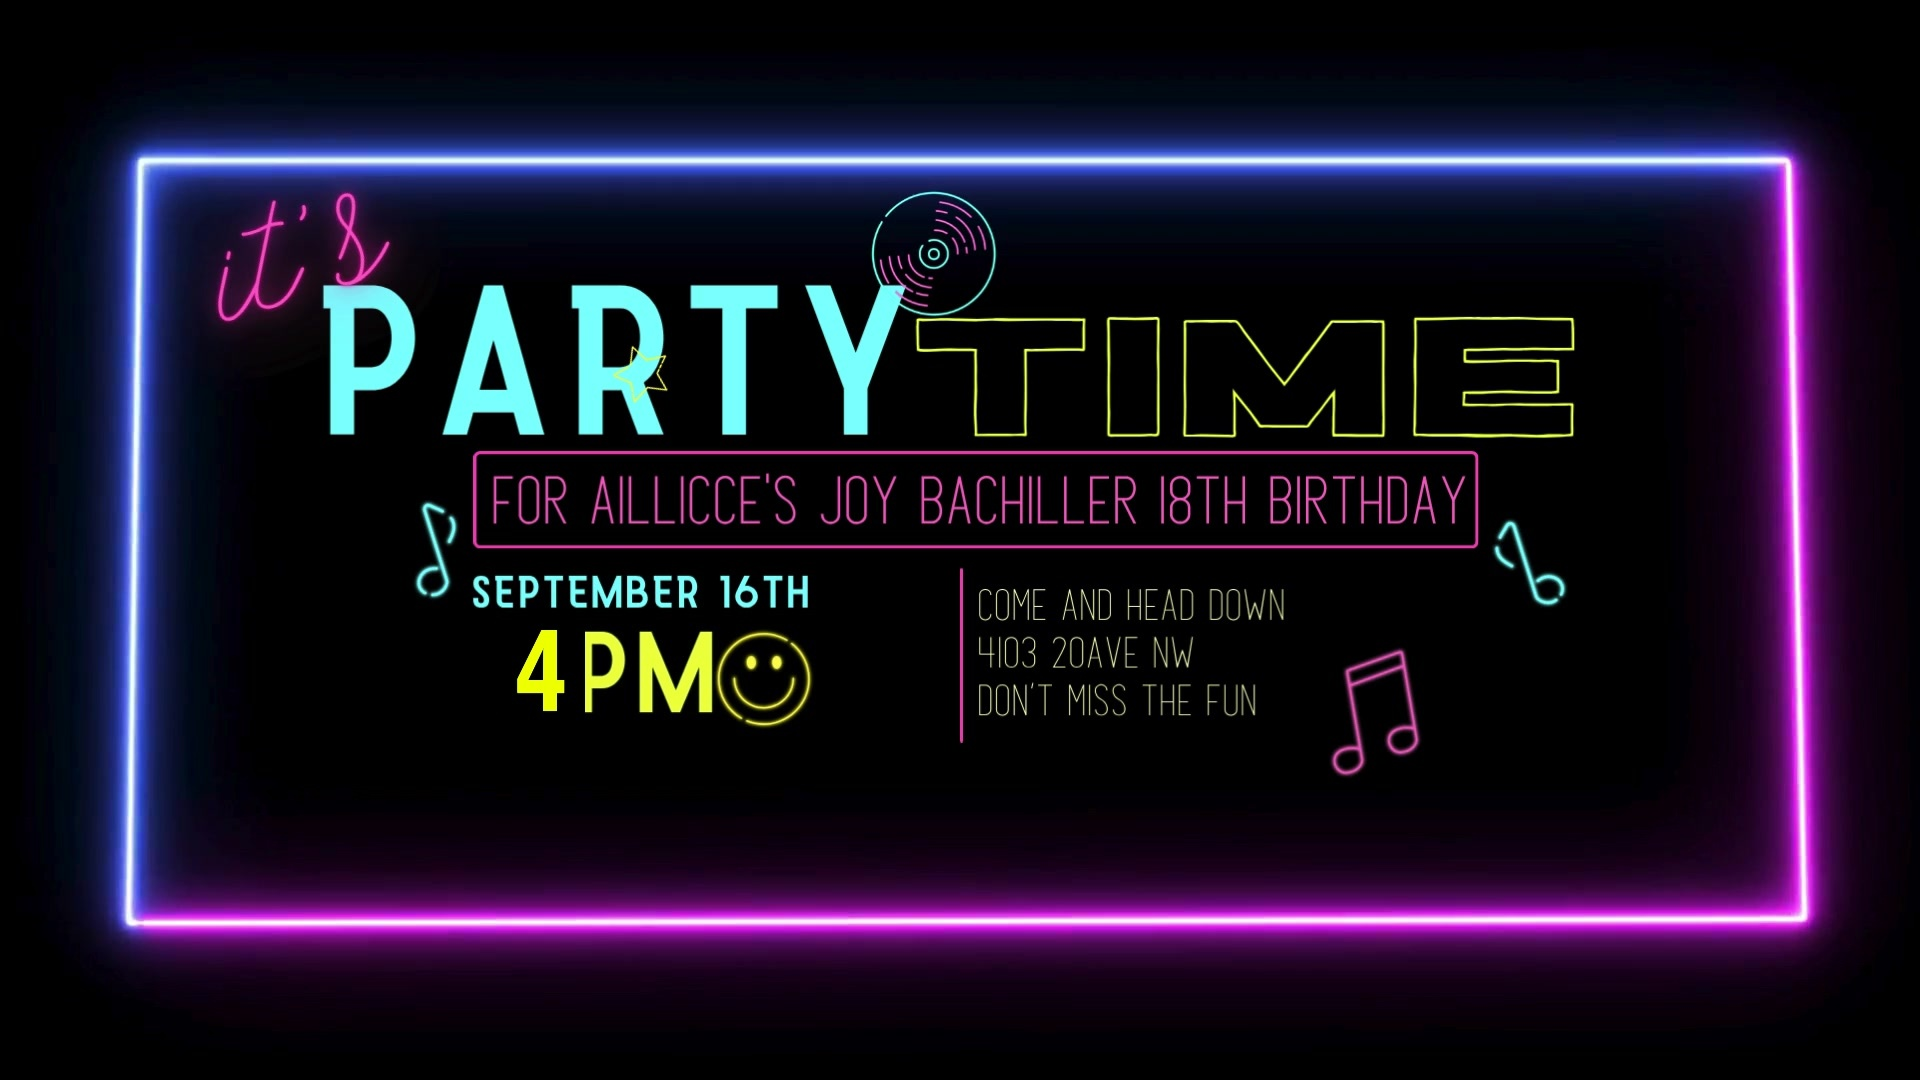
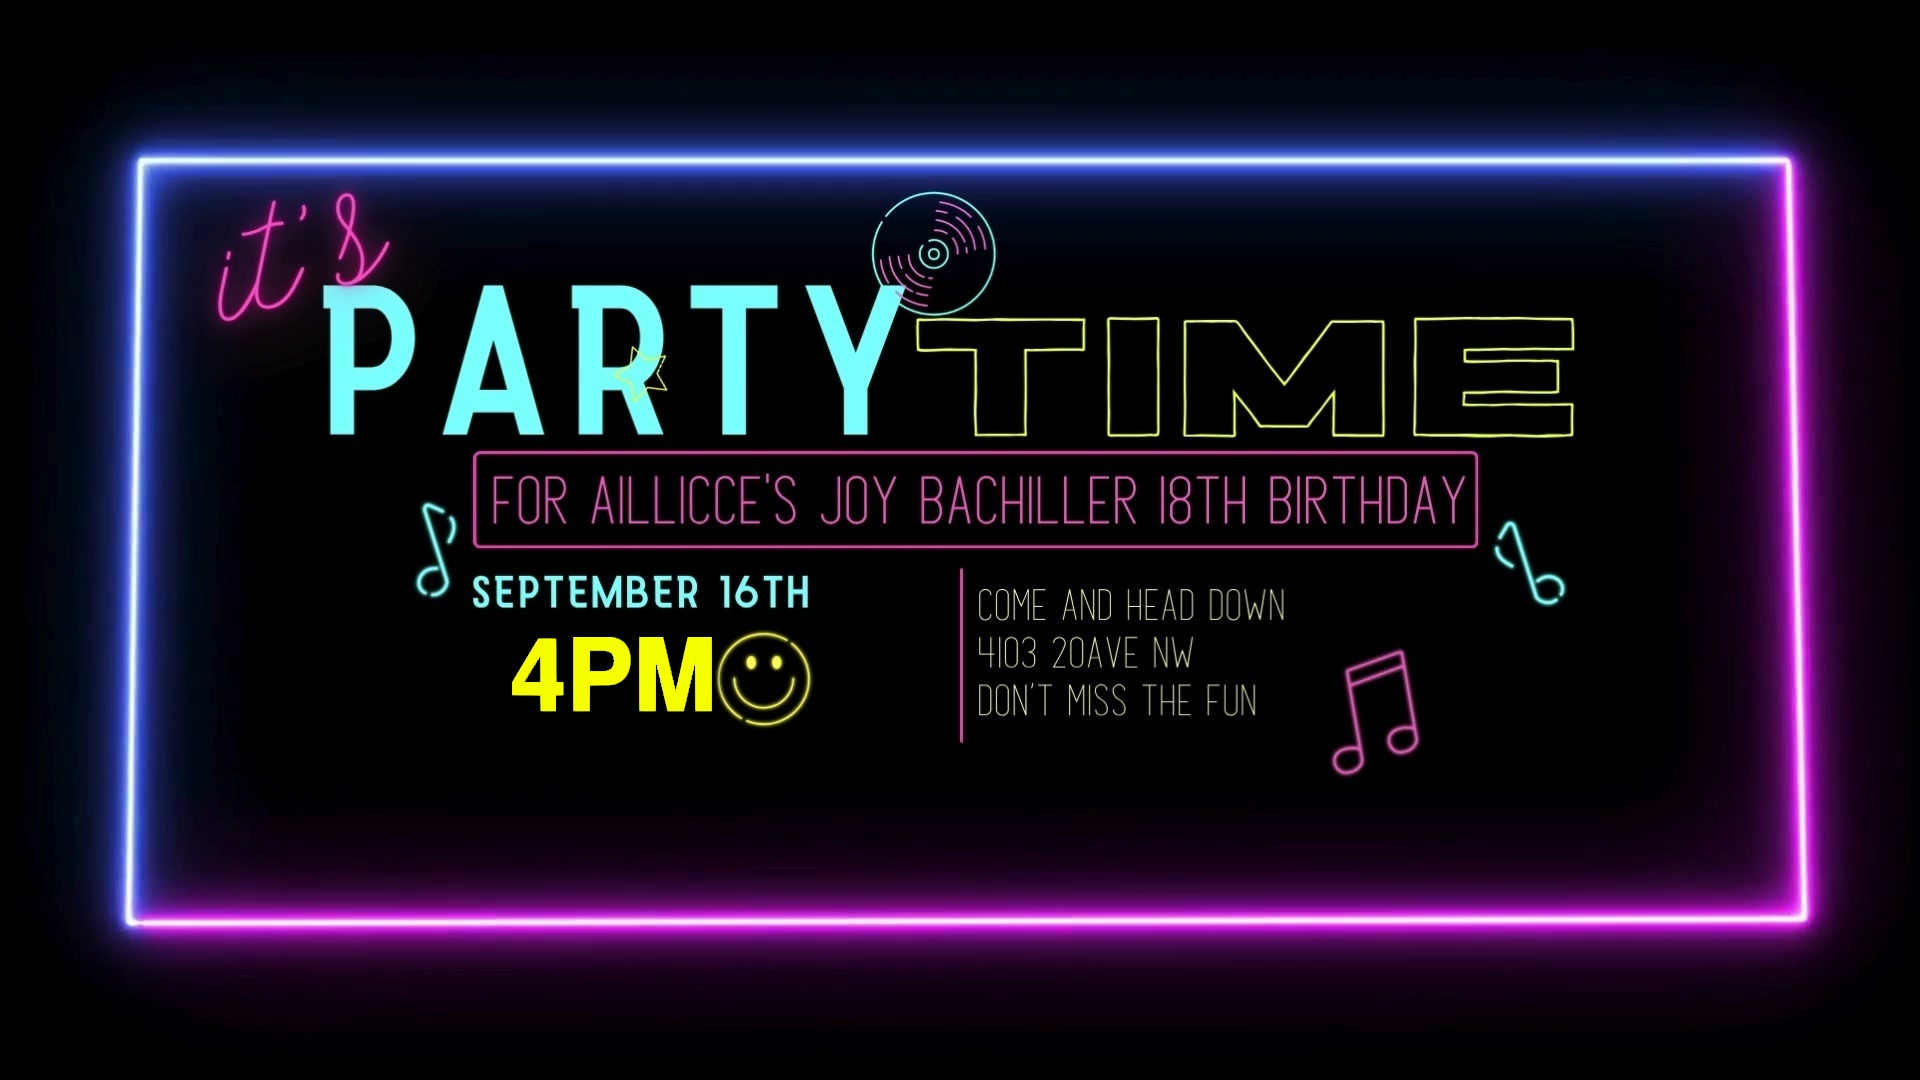
Save slot 07: party mode unlocked

Changed region(s): [[0.25, 0.5806, 0.375, 0.6722], [0.7812, 0.3056, 0.8125, 0.3361]]

diff --git a/index.html b/index.html
@@ -24,10 +24,12 @@
     h2{margin:.2em 0;font-size:clamp(2rem,7vw,5.5rem);line-height:.95;text-transform:uppercase;text-shadow:0 0 14px var(--cyan)}
     .sub{font-size:clamp(1rem,2.5vw,1.35rem);letter-spacing:.08em;line-height:1.6;margin:1rem 0 0}
     .start{margin-top:1.4rem;padding:16px 24px;border:2px solid var(--cyan);border-radius:999px;background:#09051f;color:white;font:800 1rem/1 Arial;letter-spacing:.12em;box-shadow:0 0 18px rgba(81,239,255,.75);cursor:pointer;animation:pulse 1.3s infinite}.start:hover,.start:focus-visible{background:var(--cyan);color:#05020d;outline:none}
-    .unlock{background:radial-gradient(circle at 50% 45%,#281254 0,#080318 52%,#020109 100%)}
-    .ring{position:absolute;width:min(74vw,660px);aspect-ratio:1;border:3px solid var(--cyan);transform:rotate(45deg);box-shadow:0 0 32px var(--cyan),inset 0 0 32px rgba(255,54,200,.3);animation:spin 12s linear infinite;z-index:-1}
+    .unlock{background:radial-gradient(circle at 50% 43%,rgba(255,54,200,.22) 0 2%,transparent 30%),radial-gradient(circle at 18% 24%,rgba(81,239,255,.62) 0 1px,transparent 2px),radial-gradient(circle at 78% 22%,rgba(255,229,64,.68) 0 1px,transparent 2px),radial-gradient(circle at 23% 74%,rgba(255,54,200,.55) 0 1px,transparent 2px),radial-gradient(circle at 84% 72%,rgba(81,239,255,.55) 0 1px,transparent 2px),linear-gradient(180deg,#17043e 0%,#09051e 52%,#020109 100%)}
+    .unlock::before{content:"";position:absolute;inset:-22%;z-index:0;pointer-events:none;background:repeating-linear-gradient(90deg,transparent 0 58px,rgba(81,239,255,.12) 59px 60px),repeating-linear-gradient(0deg,transparent 0 58px,rgba(255,54,200,.1) 59px 60px);transform:perspective(720px) rotateX(61deg) scale(1.35);transform-origin:50% 76%;opacity:.48;mix-blend-mode:screen;animation:levelGrid 8s linear infinite}
+    .unlock::after{background:radial-gradient(circle at center,transparent 12%,rgba(2,0,12,.48) 86%),linear-gradient(90deg,rgba(255,54,200,.08),transparent 35% 65%,rgba(81,239,255,.08))}
+    .ring{position:absolute;width:min(74vw,660px);aspect-ratio:1;border:3px solid var(--cyan);transform:rotate(45deg);box-shadow:0 0 32px var(--cyan),inset 0 0 32px rgba(255,54,200,.3);animation:spin 12s linear infinite;z-index:1;opacity:.72;mix-blend-mode:screen}.unlock .panel{position:relative;z-index:2;box-shadow:0 0 24px var(--pink),0 0 72px rgba(81,239,255,.2),inset 0 0 24px rgba(81,239,255,.16)}
     .details-card{display:block;width:min(93vw,1120px);height:auto;max-height:calc(100vh - 150px);object-fit:contain;border:2px solid rgba(255,255,255,.8);border-radius:16px;background:#020109;box-shadow:0 0 24px var(--pink),0 0 70px rgba(81,239,255,.42);cursor:pointer}
-    .finale .panel{border-color:var(--cyan)}.finale h2{color:var(--gold)}
+    .finale::before{content:"";position:absolute;inset:-10%;z-index:0;pointer-events:none;background:radial-gradient(circle at 50% 48%,rgba(255,54,200,.2) 0 10%,transparent 34%),repeating-conic-gradient(from 0deg at 50% 48%,transparent 0 14deg,rgba(81,239,255,.1) 15deg 16deg,transparent 17deg 31deg);mix-blend-mode:screen;opacity:.78}.finale.active::before{animation:finalePulse 5.8s ease-in-out infinite}.finale-sparks{position:absolute;inset:0;z-index:1;pointer-events:none;background:radial-gradient(circle at 18% 24%,var(--cyan) 0 2px,transparent 3px),radial-gradient(circle at 82% 25%,var(--pink) 0 2px,transparent 3px),radial-gradient(circle at 14% 73%,var(--gold) 0 2px,transparent 3px),radial-gradient(circle at 87% 73%,var(--cyan) 0 2px,transparent 3px);filter:drop-shadow(0 0 8px var(--cyan));animation:sparkFlicker 3.8s steps(1,end) infinite}.finale-sparks::after{content:"";position:absolute;left:50%;top:48%;width:min(42vw,460px);aspect-ratio:1;border:1px dashed rgba(81,239,255,.44);border-radius:50%;transform:translate(-50%,-50%);box-shadow:0 0 32px rgba(255,54,200,.3),inset 0 0 30px rgba(81,239,255,.14);animation:finaleOrbit 16s linear infinite}.finale-badge{position:absolute;top:clamp(28px,8vh,86px);right:clamp(20px,8vw,120px);z-index:2;width:clamp(86px,10vw,138px);aspect-ratio:1;border:2px solid var(--gold);border-radius:50%;display:grid;place-items:center;align-content:center;background:rgba(3,2,12,.7);box-shadow:0 0 14px var(--gold),0 0 42px rgba(255,54,200,.55),inset 0 0 18px rgba(81,239,255,.2);transform:rotate(9deg);animation:badgeFloat 3.8s ease-in-out infinite}.finale-badge strong{display:block;color:var(--gold);font-size:clamp(2rem,5vw,3.5rem);line-height:.9;text-shadow:0 0 12px var(--gold)}.finale-badge span{display:block;color:var(--cyan);font-size:clamp(.55rem,1vw,.72rem);font-weight:900;letter-spacing:.16em;text-shadow:0 0 8px var(--cyan)}.finale .panel{position:relative;z-index:2;border-color:var(--cyan);box-shadow:0 0 24px var(--cyan),0 0 72px rgba(255,54,200,.28),inset 0 0 24px rgba(81,239,255,.16)}.finale h2{color:var(--gold)}.finale-reward{display:inline-flex;align-items:center;gap:.65em;margin:1.2rem 0 .1rem;padding:9px 14px;border:1px solid var(--gold);border-radius:999px;color:var(--gold);font-size:clamp(.68rem,1.5vw,.9rem);font-weight:900;letter-spacing:.14em;text-shadow:0 0 8px var(--gold);box-shadow:0 0 14px rgba(255,229,64,.45);animation:rewardPulse 2.2s ease-in-out infinite}.finale-reward span{color:var(--pink);font-size:1.2em;text-shadow:0 0 10px var(--pink)}
     .controls{position:fixed;left:50%;bottom:max(18px,env(safe-area-inset-bottom));transform:translateX(-50%);z-index:30;display:flex;align-items:center;gap:14px;padding:8px 10px;border-radius:999px;background:rgba(2,1,12,.72);backdrop-filter:blur(10px)}
     .nav{width:46px;height:46px;border:1px solid rgba(255,255,255,.32);border-radius:50%;background:rgba(12,7,35,.9);color:white;font-size:1.35rem;cursor:pointer}.nav:hover,.nav:focus-visible{border-color:var(--cyan);box-shadow:0 0 12px var(--cyan);outline:none}.nav:disabled{opacity:.3;cursor:default;box-shadow:none}
     .dots{display:flex;gap:8px}.dot{width:9px;height:9px;border:0;border-radius:50%;padding:0;background:#716b82;cursor:pointer}.dot.on{background:var(--pink);box-shadow:0 0 9px var(--pink)}
@@ -35,7 +37,7 @@
     @keyframes pulse{50%{box-shadow:0 0 30px var(--pink);transform:translateY(-2px)}}@keyframes promptPulse{50%{box-shadow:0 0 24px var(--pink);transform:translateX(-50%) translateY(-2px)}}@keyframes spin{to{transform:rotate(405deg)}}@keyframes coinDrop{0%{top:37%;opacity:0;transform:translate(-50%,-50%) scale(.55) rotateY(0)}18%{opacity:1}72%{top:59%;opacity:1;transform:translate(-50%,-50%) scale(1) rotateY(720deg)}88%,100%{top:62%;opacity:0;transform:translate(-50%,-50%) scale(.35) rotateY(900deg)}}@keyframes slotPulse{50%{opacity:.45;transform:translate(-50%,-50%) scaleX(.72)}}
     @media (max-width:600px){.hint{display:none}.controls{bottom:max(12px,env(safe-area-inset-bottom))}.slide{padding:18px 16px 84px}.details-card{width:96vw}.panel{padding:30px 20px}}
     @media (prefers-reduced-motion:reduce){*{animation:none!important;transition:none!important}}
-    /* Save slot 06: restore the original neon rails and clean the time card */
+    /* Save slot 07: level-up arena and party-mode finale */
     .s1::before{content:"";position:absolute;inset:-4%;z-index:0;pointer-events:none;background-image:url('assets/insert-coin.jpg');background-size:cover;background-position:center;filter:blur(7px) brightness(1.08) saturate(1.55);mix-blend-mode:screen;opacity:.7;transform:scale(1.025)}
     .s1.active::before{animation:neonWash 2.5s ease-in-out infinite}
     .s1.active .coin-route{animation:routePulse 1.8s ease-in-out infinite}
@@ -60,6 +62,12 @@
     .s3 .details-card{animation:detailsFlicker 5.2s steps(1,end) infinite;will-change:filter,box-shadow}
     @keyframes neonWash{0%,100%{opacity:.58;filter:blur(7px) brightness(.96) saturate(1.55)}45%{opacity:.92;filter:blur(7px) brightness(1.22) saturate(1.8)}52%{opacity:.66;filter:blur(7px) brightness(1) saturate(1.6)}58%{opacity:1;filter:blur(7px) brightness(1.28) saturate(1.85)}}
     @keyframes routePulse{0%,100%{opacity:.34;filter:brightness(.95)}50%{opacity:.8;filter:brightness(1.55)}}
+    @keyframes levelGrid{0%{transform:perspective(720px) rotateX(61deg) scale(1.35) translateY(0)}100%{transform:perspective(720px) rotateX(61deg) scale(1.35) translateY(60px)}}
+    @keyframes finalePulse{0%,100%{opacity:.54;filter:brightness(.9)}42%{opacity:.92;filter:brightness(1.2)}47%{opacity:.68;filter:brightness(1)}51%{opacity:1;filter:brightness(1.3)}}
+    @keyframes sparkFlicker{0%,100%{opacity:.72}8%{opacity:1}9%{opacity:.35}10%{opacity:.9}46%{opacity:.86}47%{opacity:.28}49%{opacity:1}76%{opacity:.55}78%{opacity:1}}
+    @keyframes finaleOrbit{to{transform:translate(-50%,-50%) rotate(360deg)}}
+    @keyframes badgeFloat{0%,100%{transform:rotate(9deg) translateY(0)}50%{transform:rotate(-4deg) translateY(-8px)}}
+    @keyframes rewardPulse{50%{box-shadow:0 0 26px rgba(255,229,64,.85),0 0 44px rgba(255,54,200,.38);transform:translateY(-2px)}}
     @keyframes coinIdle{0%,100%{top:37%;transform:translate(-50%,-50%) rotateY(0) scale(.96);filter:brightness(.96)}50%{top:39%;transform:translate(-50%,-50%) rotateY(180deg) scale(1.04);filter:brightness(1.2)}}
     @keyframes coinInsert{0%{top:37%;opacity:1;transform:translate(-50%,-50%) rotateY(0) scale(1)}32%{top:48%;opacity:1;transform:translate(-50%,-50%) rotateY(540deg) scale(1.05)}68%{top:62%;opacity:1;transform:translate(-50%,-50%) rotateY(1080deg) scale(.92)}88%{top:69%;opacity:1;transform:translate(-50%,-50%) rotateY(1440deg) scale(.62)}100%{top:72%;opacity:0;transform:translate(-50%,-50%) rotateY(1620deg) scale(.24)}}
     @keyframes slotReceive{0%,100%{transform:translateX(-50%) scale(1)}55%{transform:translateX(-50%) scale(1.045);box-shadow:0 0 28px var(--pink),0 0 68px rgba(81,239,255,.95),inset 0 0 28px rgba(255,54,200,.5)}75%{transform:translateX(-50%) scale(.985)}}
@@ -75,9 +83,9 @@
     <section class="slide s1 active" aria-hidden="false"><button class="coin-start" type="button" aria-label="Insert coin and open invitation"><span class="coin-route" aria-hidden="true"></span><span class="coin" aria-hidden="true">18</span><span class="slot-glow" aria-hidden="true"></span><span class="coin-slot" aria-hidden="true"><span class="slot-label">COIN SLOT</span><span class="slot-opening"></span><span class="slot-lamp"></span></span><span class="coin-prompt" aria-live="polite">TAP TO INSERT COIN</span></button></section>
     <section class="slide unlock" aria-hidden="true"><div class="ring"></div><div class="panel"><div class="eyebrow">ACHIEVEMENT UNLOCKED</div><h1>18</h1><h2>Level up!</h2><p class="sub">Aillicce's Joy is turning eighteen.</p></div></section>
     <section class="slide s3" aria-hidden="true"><img class="details-card" src="assets/invitation.jpg" alt="Party details for Aillicce's Joy's 18th birthday: September 16th at 4 PM." /></section>
-    <section class="slide s4 finale" aria-hidden="true"><div class="panel"><div class="eyebrow">MISSION ACCEPTED</div><h2>See you there!</h2><p class="sub">Tap replay to experience the invitation again.</p><button class="start replay" type="button">REPLAY</button></div></section>
+    <section class="slide s4 finale" aria-hidden="true"><div class="finale-sparks" aria-hidden="true"></div><div class="finale-badge" aria-hidden="true"><strong>18</strong><span>LVL CLEAR</span></div><div class="panel"><div class="eyebrow">MISSION ACCEPTED</div><h2>See you there!</h2><p class="sub">Birthday quest complete.</p><div class="finale-reward"><span>✦</span> PARTY MODE UNLOCKED <span>✦</span></div><button class="start replay" type="button">REPLAY</button></div></section>
   </main>
-  <div class="hint">SAVE SLOT 06 · Click, tap, or use ← →</div>
+  <div class="hint">SAVE SLOT 07 · Click, tap, or use ← →</div>
   <nav class="controls" aria-label="Slide controls"><button class="nav prev" aria-label="Previous slide">‹</button><div class="dots" aria-label="Choose slide"></div><button class="nav next" aria-label="Next slide">›</button></nav>
   <script>
     const slides=[...document.querySelectorAll('.slide')], dots=document.querySelector('.dots'), coinStart=document.querySelector('.coin-start'), coinPrompt=document.querySelector('.coin-prompt'); let current=0,coinTimer=0,inserting=false;

diff --git a/README.md b/README.md
@@ -1,16 +1,17 @@
 # Aillicce's Joy — 18th Birthday Invitation
 
-Current save slot: **06 — Neon Rails Restored**
+Current save slot: **07 — Party Mode Unlocked**
 
-[Open or share the live invitation](https://airambach26.github.io/aillicce-18th-invitation/)
+[Open or share the invitation](https://airambach26.github.io/aillicce-18th-invitation/)
 
 ## What is in this slot
 
 - Original arcade neon rails restored with a stronger glow
 - Clickable coin that travels into a cabinet-style coin slot
 - Four-slide invitation flow with tap, click, keyboard, and swipe controls
-- Clean **4 PM** details artwork on the invitation and finale slides
+- Wider, clearer **4 PM** lettering on both artwork slides
+- Neon level-up arena on slide 2
 - Flickering neon details screen
-- No build tools required: open `index.html` in Visual Studio Code or a browser
+- Animated level-clear badge and **Party Mode Unlocked** reward on the finale
 
-The public invitation is published with GitHub Pages so it has a normal shareable URL.
+No build tools are required: open `index.html` in Visual Studio Code or a browser.

diff --git a/save-slots/SLOT_07_PARTY_MODE.md b/save-slots/SLOT_07_PARTY_MODE.md
@@ -1,0 +1,13 @@
+# Save Slot 07 — Party Mode Unlocked
+
+- Status: active
+- Invitation time: 4 PM
+- Start screen: original neon rails with a stronger glow
+- Coin action: clickable coin travels into a cabinet-style coin slot
+- Level-up screen: animated neon grid arena
+- Details screen: wider P in the 4 PM artwork plus flickering neon
+- Finale: level-clear badge, animated sparks, and Party Mode Unlocked reward
+- Controls: tap, click, arrow keys, or swipe
+- Live build: https://airambach26.github.io/aillicce-18th-invitation/
+
+This slot keeps the invitation in its arcade-game form while preserving the original birthday artwork.
